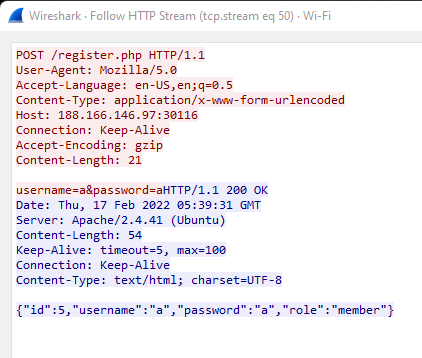
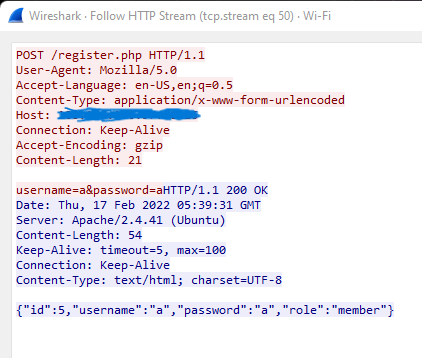
Update

Changed region(s): [[0.1232, 0.2765, 0.4929, 0.3687]]

diff --git a/HackTheBox Challenges/Mobile/Manager/Manager.md b/HackTheBox Challenges/Mobile/Manager/Manager.md
@@ -1,0 +1,79 @@
+# Mobile: Manager
+Written by: 0xETX (0x03)
+
+## Resources Used:
+1. Bluestacks
+2. Wireshark
+3. Curl
+
+We often see Web and Binary exploitation in CTFs. However, one of the more uncommon things is Mobile exploitation. Unfortunately, the Mobile App world has yet to catch up to Desktop software in terms of security, leaving them ripe for exploitation. In this challenge, we'll see an Android app being taken advantage of for weak security controls. I had a blast completing this challenge and this is definitley one of the ones I'm most proud to showcase.
+
+## Getting Started
+The first order of business is to launch the application in Bluestacks. The first thing we're prompted is for a server's IP Address and Port. This is needed to complete the challenge, as the challenge requires an instance of the app's server to function correctly.
+![alt-text](https://github.com/0xETX/CTF-Writeups/blob/main/HackTheBox%20Challenges/Mobile/Manager/Images/1.png "Server address information.")
+
+*Figure 1.0: Starting prompt to connect to server.*
+
+After connecting with the generated server's IP and Port, I run Wireshark in the background to check for any notable traffic while completing the challenge.
+
+## Understanding the Application
+The first thing we see after connecting is a prompt for login, alongside a "register" button.
+![alt-text](https://github.com/0xETX/CTF-Writeups/blob/main/HackTheBox%20Challenges/Mobile/Manager/Images/2.png "Viewing the default homepage.")
+
+*Figure 2.0: The login page of the app.*
+
+Before we can progress, the first thing it seems I'll need is an account, so I click register.
+
+Thankfully, the registration process is easy, only requiring and username and password.
+![alt-text](https://github.com/0xETX/CTF-Writeups/blob/main/HackTheBox%20Challenges/Mobile/Manager/Images/3.png "Registering.")
+
+*Figure 2.1: Registering with new account "a".*
+
+After creating and logging into our newly registered account, we get a page that allows us to change our password.
+![alt-text](https://github.com/0xETX/CTF-Writeups/blob/main/HackTheBox%20Challenges/Mobile/Manager/Images/4.png "Password page.")
+
+*Figure 2.2: Viewing the password update page.*
+
+There is nothing else that the app seems to support functionaliy-wise, so I decided to take a look at my captured traffic.
+
+And the very first thing I see is the registration page - in cleartext, with the username and password blatantly visible. It seems simple in functionality, where the app uses a POST request with the username and password in body to the register.php page to create an account.
+![alt-text](https://github.com/0xETX/CTF-Writeups/blob/main/HackTheBox%20Challenges/Mobile/Manager/Images/5.png "Viewing the cleartext registration."
+
+*Figure 2.3: Viewing the traffic in cleartext.*
+
+Knowing that the registration is in cleartext, I decide to see if the same thing occurs with the password update page. So, I log back into the "a" account and change the password to "helloWorld!".
+![alt-text](https://github.com/0xETX/CTF-Writeups/blob/main/HackTheBox%20Challenges/Mobile/Manager/Images/6.png "Updating the password.")
+
+*Figure 2.4: Updating "a"'s password.*
+
+After checking the Wireshark capture, it is once again set in cleartext. It seems to work the exact same way as the previous capture, although this time it uses "manage.php" instead of register.
+
+What I believe to be most likely at this point (as seen from the poor controls so far) is that the script simply just takes in the username and replaces it with the password it's given in the body text... Which gives me an idea of how to easily exploit this.
+![alt-text](https://github.com/0xETX/CTF-Writeups/blob/main/HackTheBox%20Challenges/Mobile/Manager/Images/7.png "Observing the manage.php capture.")
+
+*Figure 2.5: Observing the packet capture.*
+
+## The Attack
+Using Curl and our old "a" account, I decide to do a test run on the account by filling out the text body with a new password (abc123) and using a POST request on the server's manage.php page. My theory here is that the page will update the password, regardless if I'm logged in or not.
+
+After running the command, we get a very concerning message - "Password updated successfully."
+![alt-text](https://github.com/0xETX/CTF-Writeups/blob/main/HackTheBox%20Challenges/Mobile/Manager/Images/8.png "Possible success?")
+
+*Figure 3.0: A concerning message is present...*
+
+After trying to log in with the new credentials, we find that it fortunately (unfortunate for the developers) works just as theorized - we are able to log in with "abc123" rather than "helloWorld!", meaning that I performed a password change without authentication.
+![alt-text](https://github.com/0xETX/CTF-Writeups/blob/main/HackTheBox%20Challenges/Mobile/Manager/Images/9.png "Using the new password to log in.")
+
+*Figure 3.1: Successfully logging in with the password created through Curl.*
+
+So, what do you do when you have the ability to change anyone's password without authentication? Obviously, go for an admin account!
+
+Using the same Curl command as before while changing the username to "admin", we see that it runs successfully once again.
+![alt-text](https://github.com/0xETX/CTF-Writeups/blob/main/HackTheBox%20Challenges/Mobile/Manager/Images/10.png "Changing the admin's password."
+
+*Figure 3.2: Changing the admin's password via Curl.*
+
+And as expected, using the new password "abc123", we are able to successfully infiltrate the admin account and receive our well deserved flag!
+![alt-text](https://github.com/0xETX/CTF-Writeups/blob/main/HackTheBox%20Challenges/Mobile/Manager/Images/11.png "Hijacking the admin's account."
+
+*Figure 3.3: Successfully logging into the administrator's account.*

diff --git a/HackTheBox Challenges/Steganography/Digital Cube/DigitalCube.md b/HackTheBox Challenges/Steganography/Digital Cube/DigitalCube.md
@@ -1,0 +1,45 @@
+# Steganography: Digital Cube
+Written by: 0xETX (0x03)
+
+## Resources Used:
+1. Notepad
+2. Mousepad
+
+## Analyzing the File
+When starting the challenge by opening the provided text file, the first most noticeable thing is that the text is all in binary. My first thought when I encountered this was to try to transform it into readable text by converting it to decimal.
+
+However, regardless if the text was put in order or backwards, the output was text that didn't have any clear meaning. As a result, I was forced to look for an alternative way of solving the challenge - and that's when I noticed something pecuilar, which was the length of the text - 2500 characters.
+![alt-text](https://github.com/0xETX/CTF-Writeups/blob/main/HackTheBox%20Challenges/Steganography/Digital%20Cube/Images/1.png "The file visible in notepad.")
+
+*Figure 1.0: Viewing the length of the text.*
+
+What struck out to me about 2500 was the number itself - I was 99% sure it was a number that could be perfectly squared. I decided to check out my suspicions on a calculator. And voila - my suspicions were correct! The root of 2500 is a valid whole number of 50.
+![alt-text](https://github.com/0xETX/CTF-Writeups/blob/main/HackTheBox%20Challenges/Steganography/Digital%20Cube/Images/2.png "Viewing the root of 2500.")
+
+*Figure 1.1: Seeing the root of 2500.*
+
+Seeing that a number as specific as 2500 (in addition to the challenge being called "Digital Cube"), I now have the confidence in a lead that I can move forward with.
+
+## Modifying the Text
+The first order of business was to turn the 2500-length string into a 50x50 "cube".
+
+After formatting the text into 50x50 shape, it wasn't immediately clear at what I was looking at. It wasn't until I started playing with fonts and sizes (and viewing my monitor at different angles) to realize that I was looking at a QR code.
+![alt-text](https://github.com/0xETX/CTF-Writeups/blob/main/HackTheBox%20Challenges/Steganography/Digital%20Cube/Images/3.png "The formatted text.")
+
+*Figure 2.0: The text adjusted to 50x50.*
+
+Unfortunately, 1's and 0's are hardly sufficient enough for a QR Code to be detected. So, the first order of business was to replace the 1's and 0's with white and black squares. Unfortunately with Notepad, it had the squares in inverse and didn't properly support emojis - so all what I had to do now was move to a different text editor/viewer.
+![alt-text](https://github.com/0xETX/CTF-Writeups/blob/main/HackTheBox%20Challenges/Steganography/Digital%20Cube/Images/4.png "Viewing the edited QR code.")
+
+*Figure 2.1: Viewing the text on notepad.*
+
+## Finishing Up
+After moving the file to my Kali VM, I used Mousepad to read the contents. And as I predicted, it was a lot more clearer!
+![alt-text](https://github.com/0xETX/CTF-Writeups/blob/main/HackTheBox%20Challenges/Steganography/Digital%20Cube/Images/5.png "The visible code.")
+
+*Figure 3.0: The QR Code finally recognizable on mousepad.*
+
+Finally, after scaling the text back a bit, I took my phone and scanned the QR Code and voila - the flag was finally visible!
+![alt-text](https://github.com/0xETX/CTF-Writeups/blob/main/HackTheBox%20Challenges/Steganography/Digital%20Cube/Images/6.jpg "The printed flag.")
+
+*Figure 3.1: Printing out the flag.*
